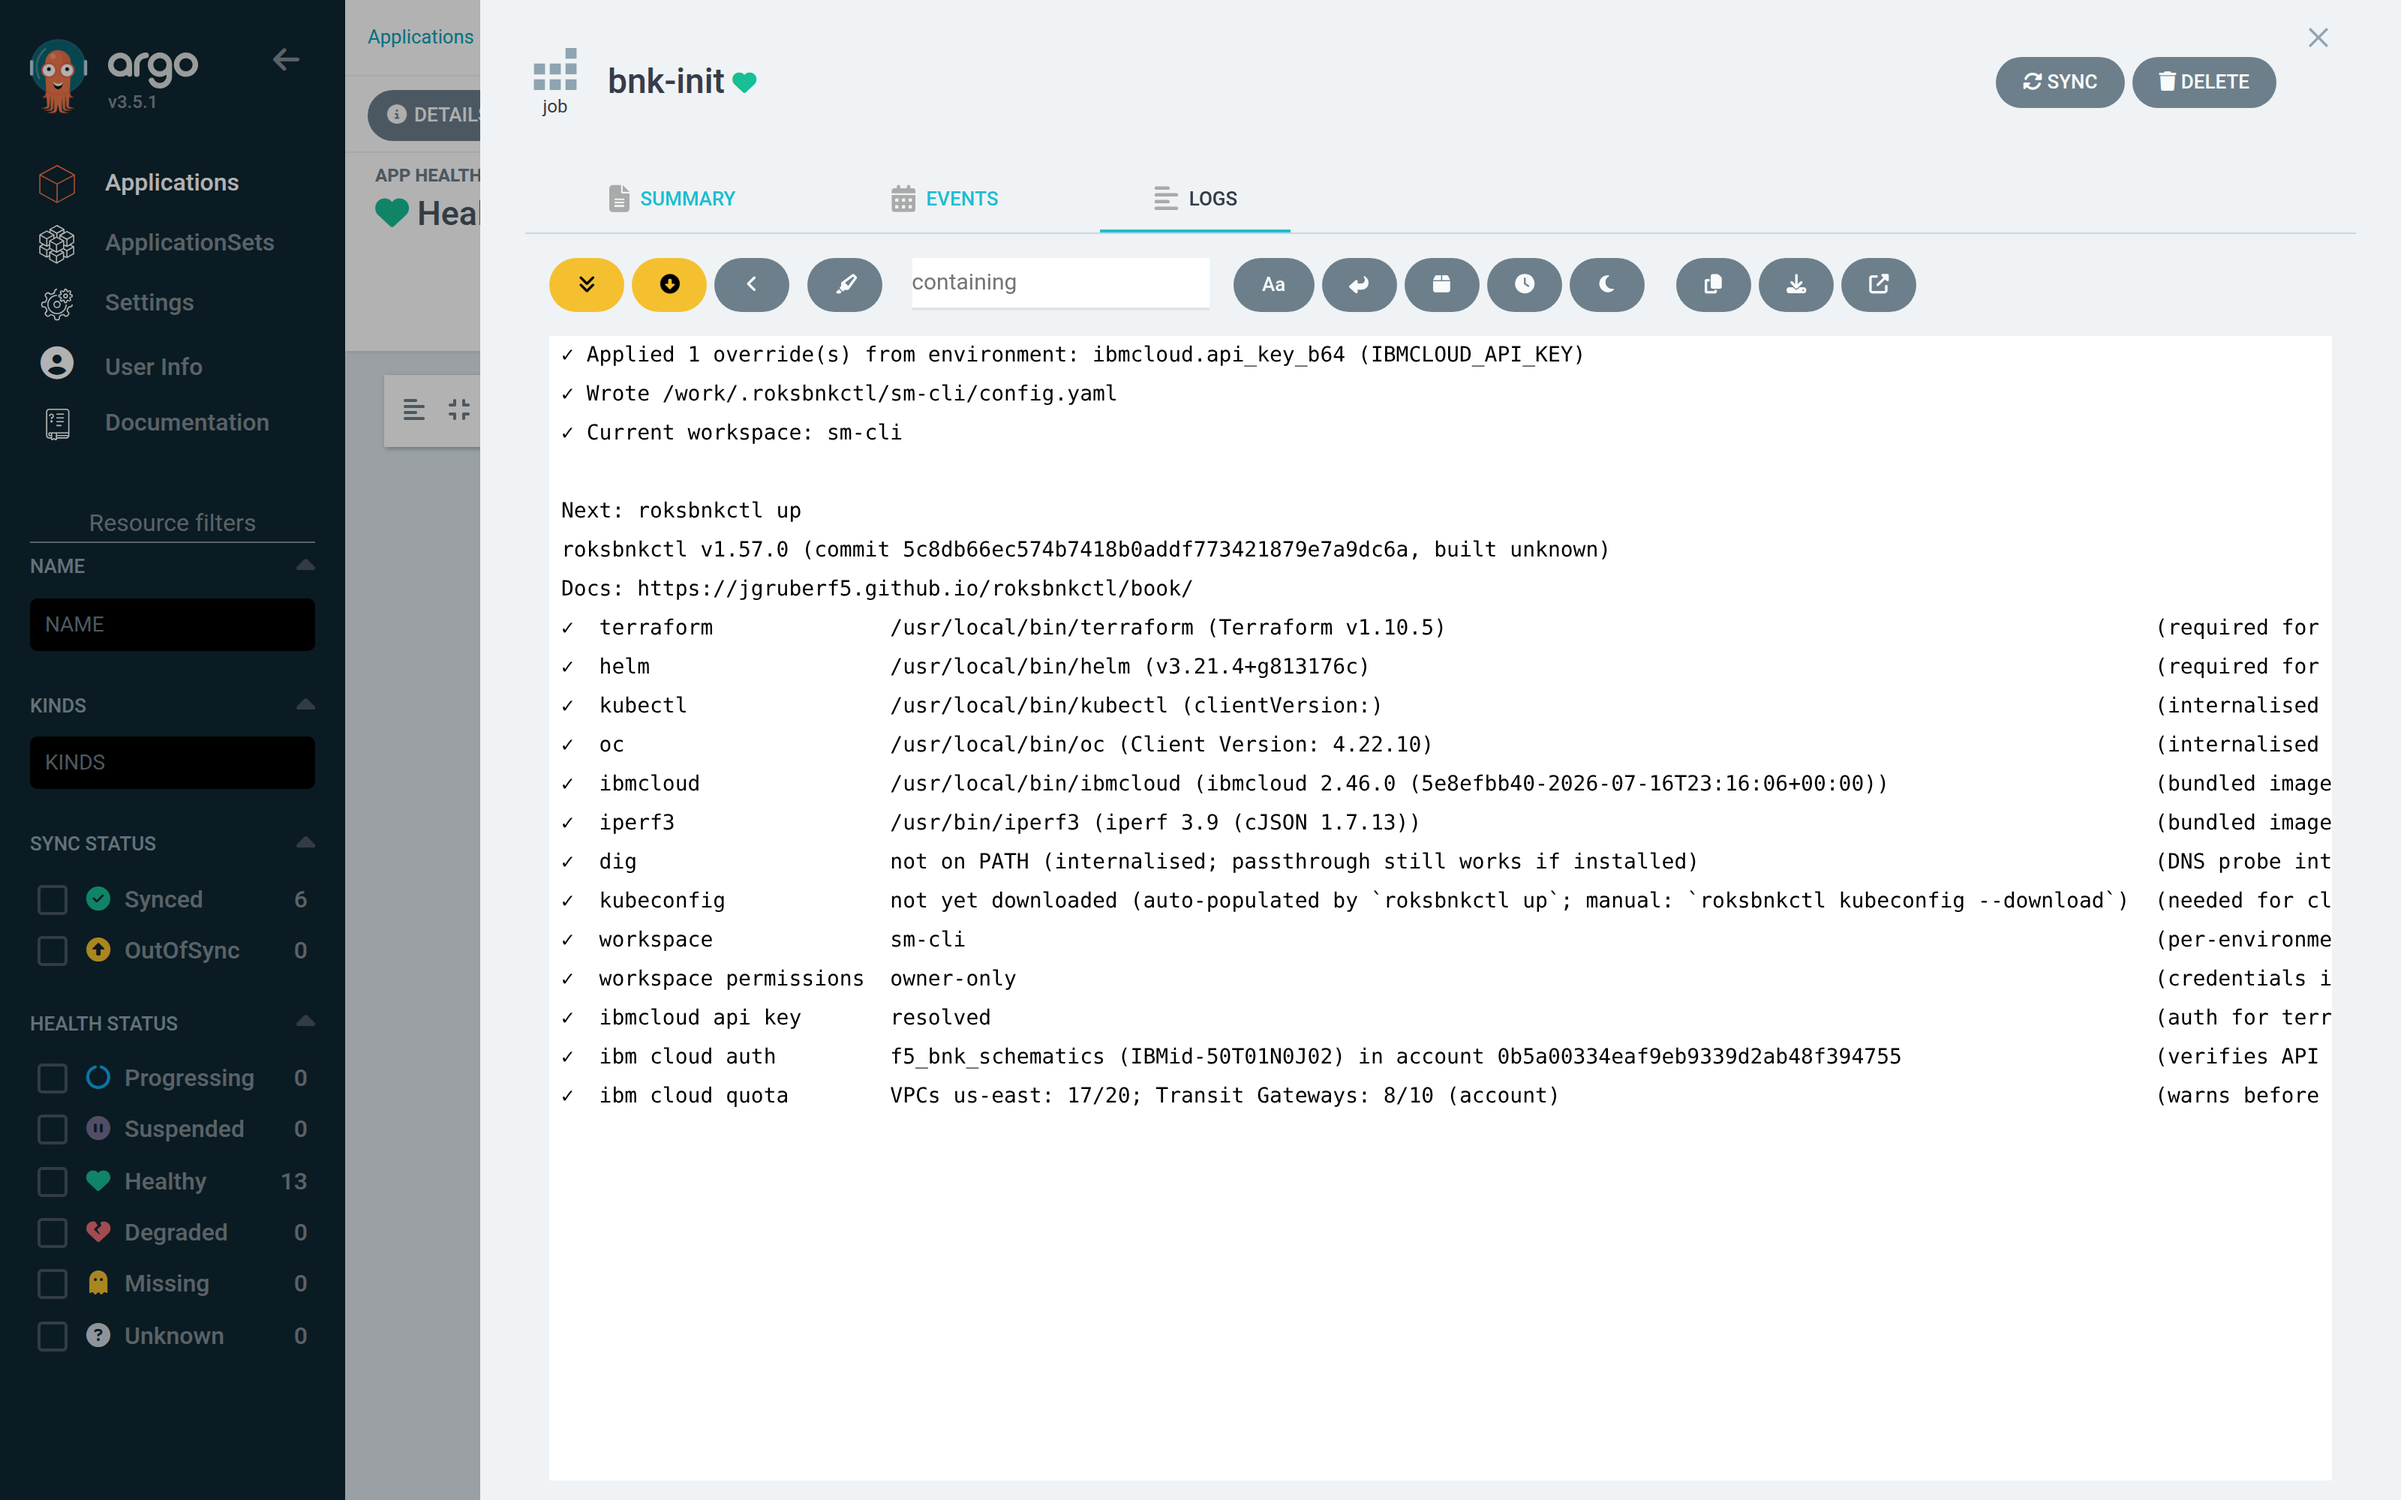
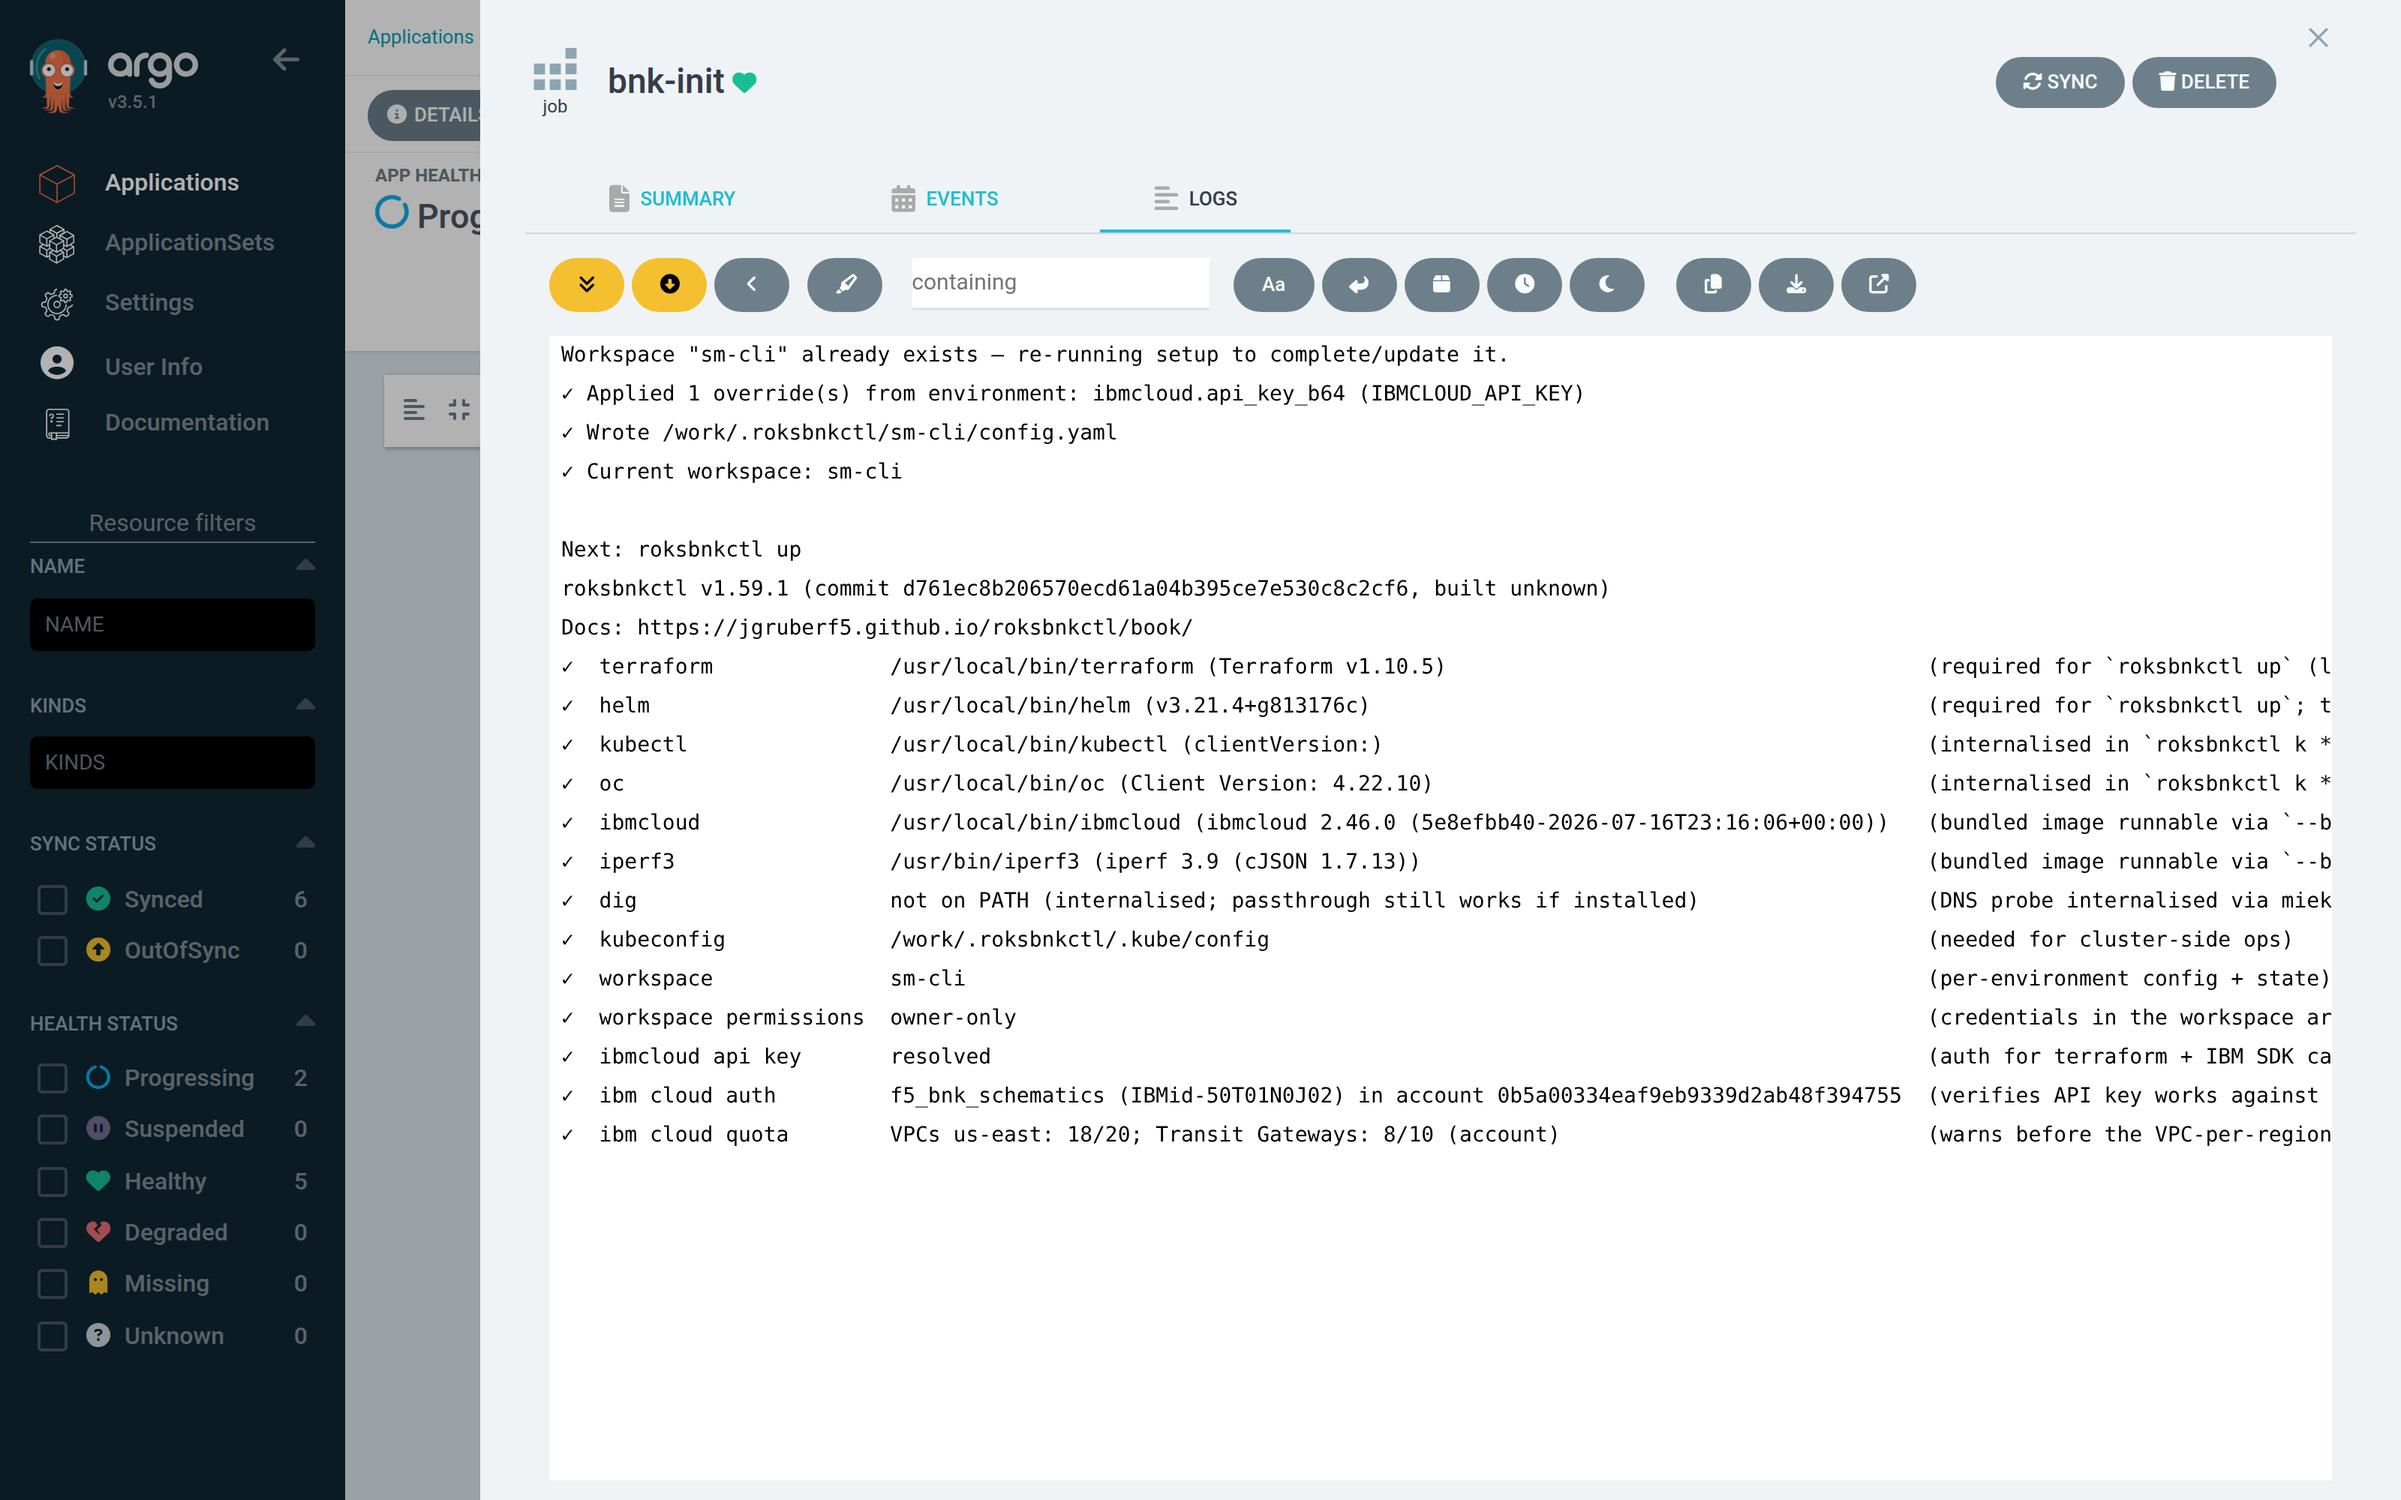
Chapter 7: bnk-init line and screenshot from the v1.59.1 run
Claude-Session: https://claude.ai/code/session_013dz6ug5kXKb94iL9fYSWhs

diff --git a/book/src/07-bnk-up-logs.md b/book/src/07-bnk-up-logs.md
@@ -13,7 +13,7 @@ tree, then the **Logs** tab in the sliding panel. The URL is bookmarkable —
 ✓ Applied 1 override(s) from environment: ibmcloud.api_key_b64 (IBMCLOUD_API_KEY)
 ✓ Wrote /work/.roksbnkctl/sm-cli/config.yaml
 ✓ Current workspace: sm-cli
-roksbnkctl v1.58.0 (commit 17514c5…)
+roksbnkctl v1.59.1 (commit d761ec8…)
 ✓  terraform              /usr/local/bin/terraform (Terraform v1.10.5)
 ✓  helm                   /usr/local/bin/helm (v3.21.4)
 ✓  ibmcloud api key       resolved
